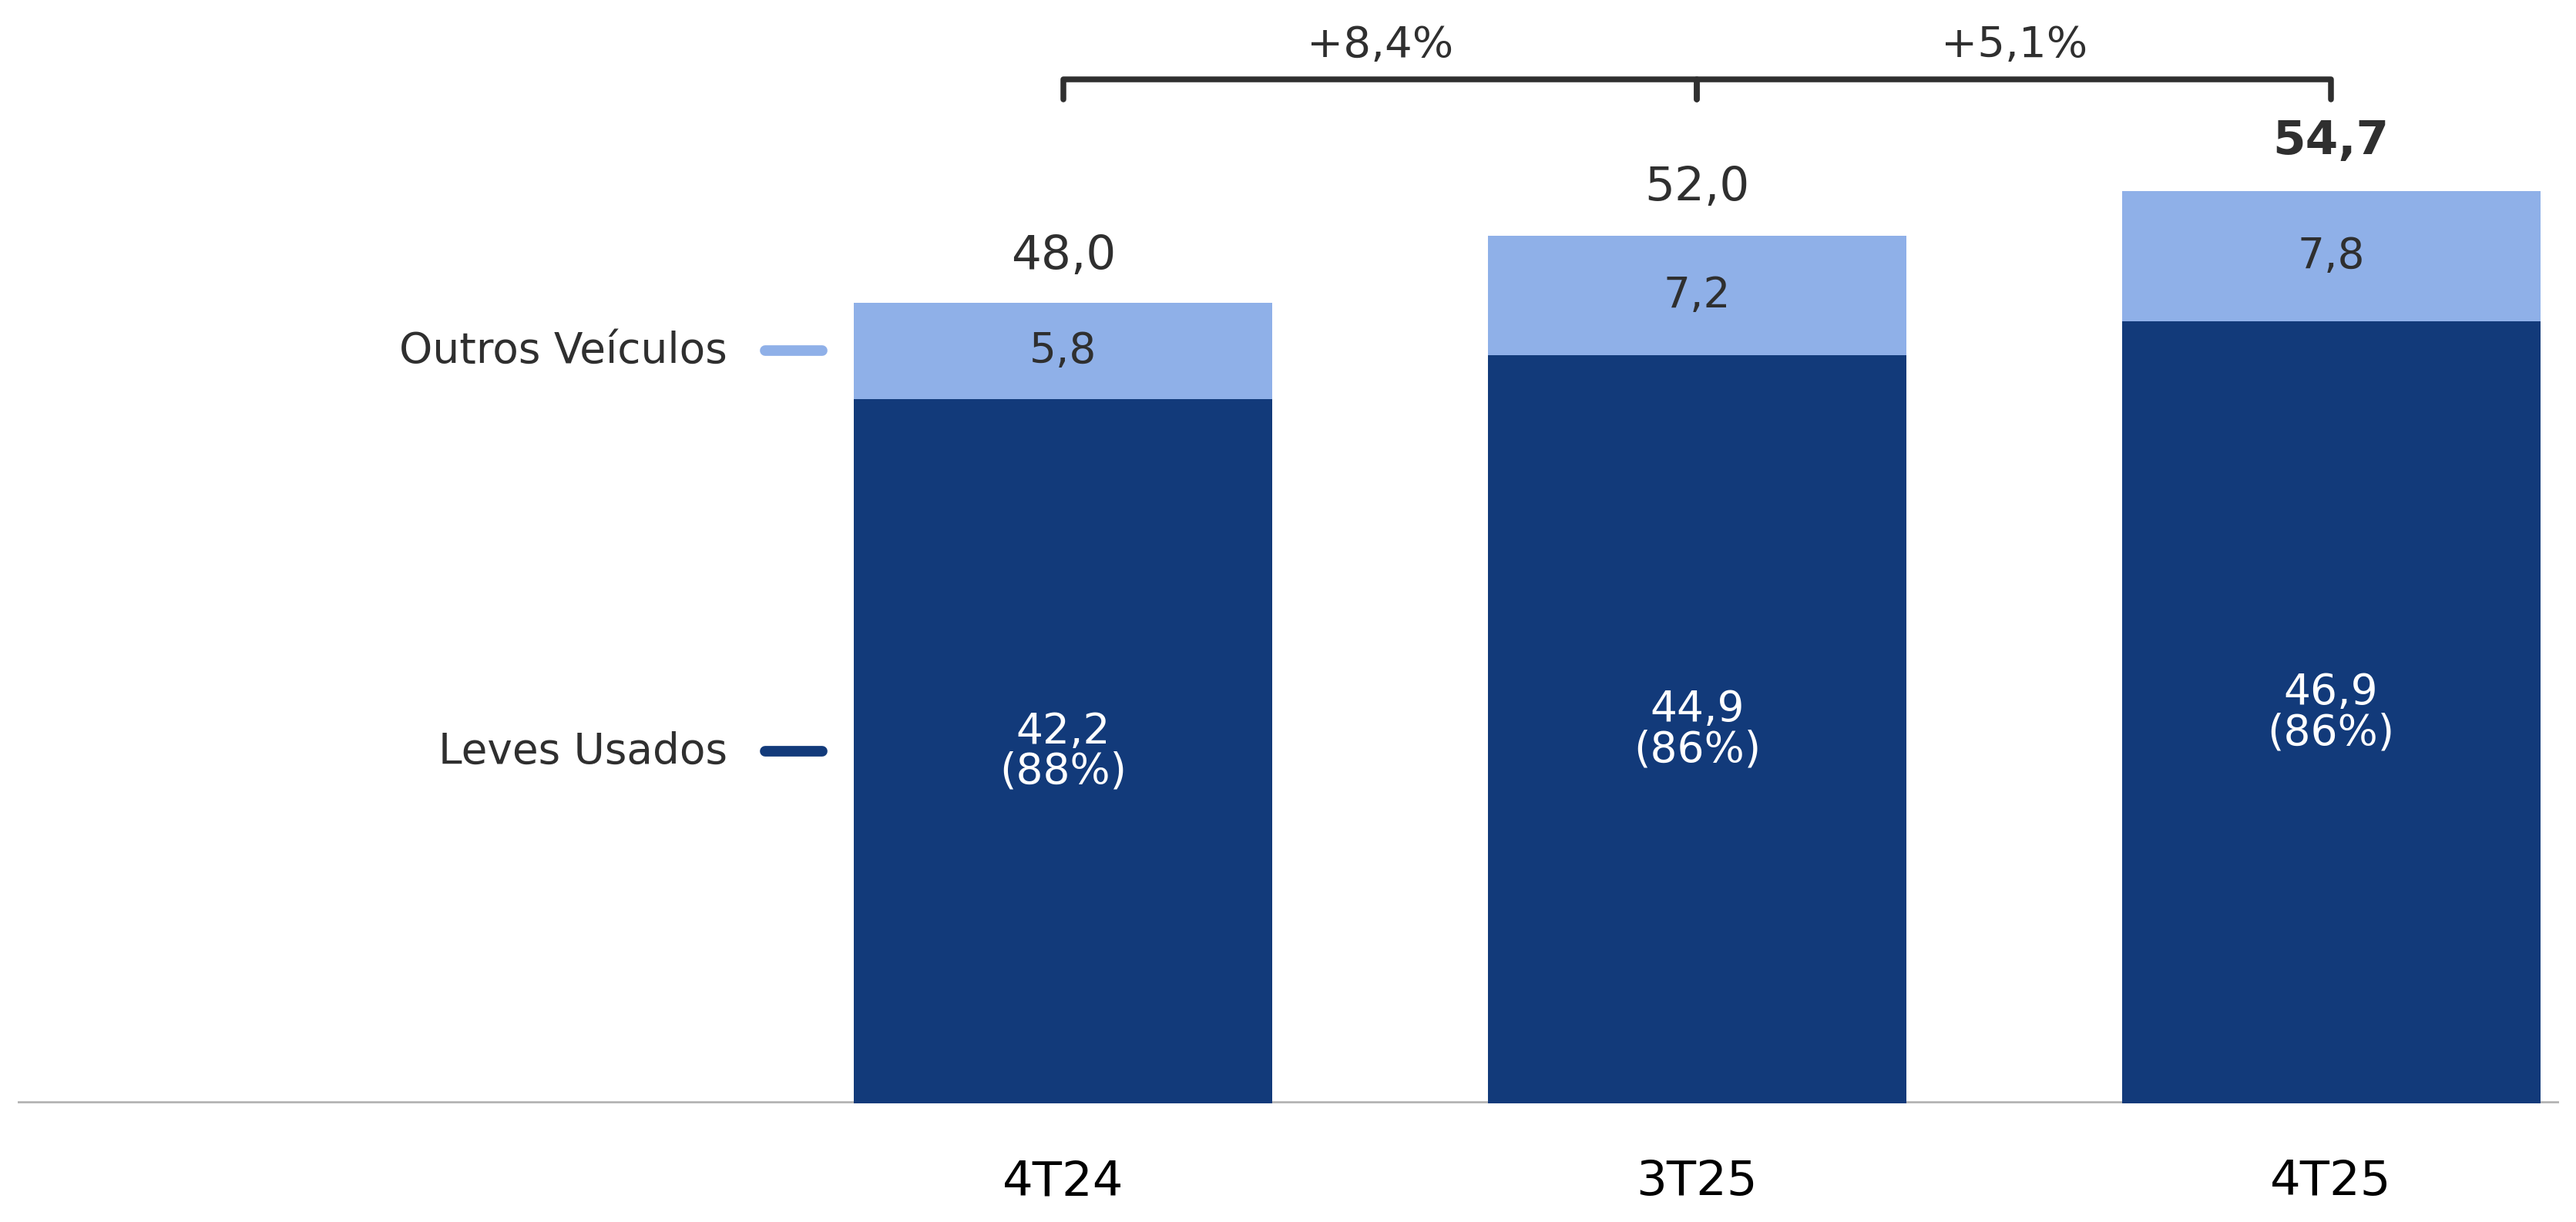
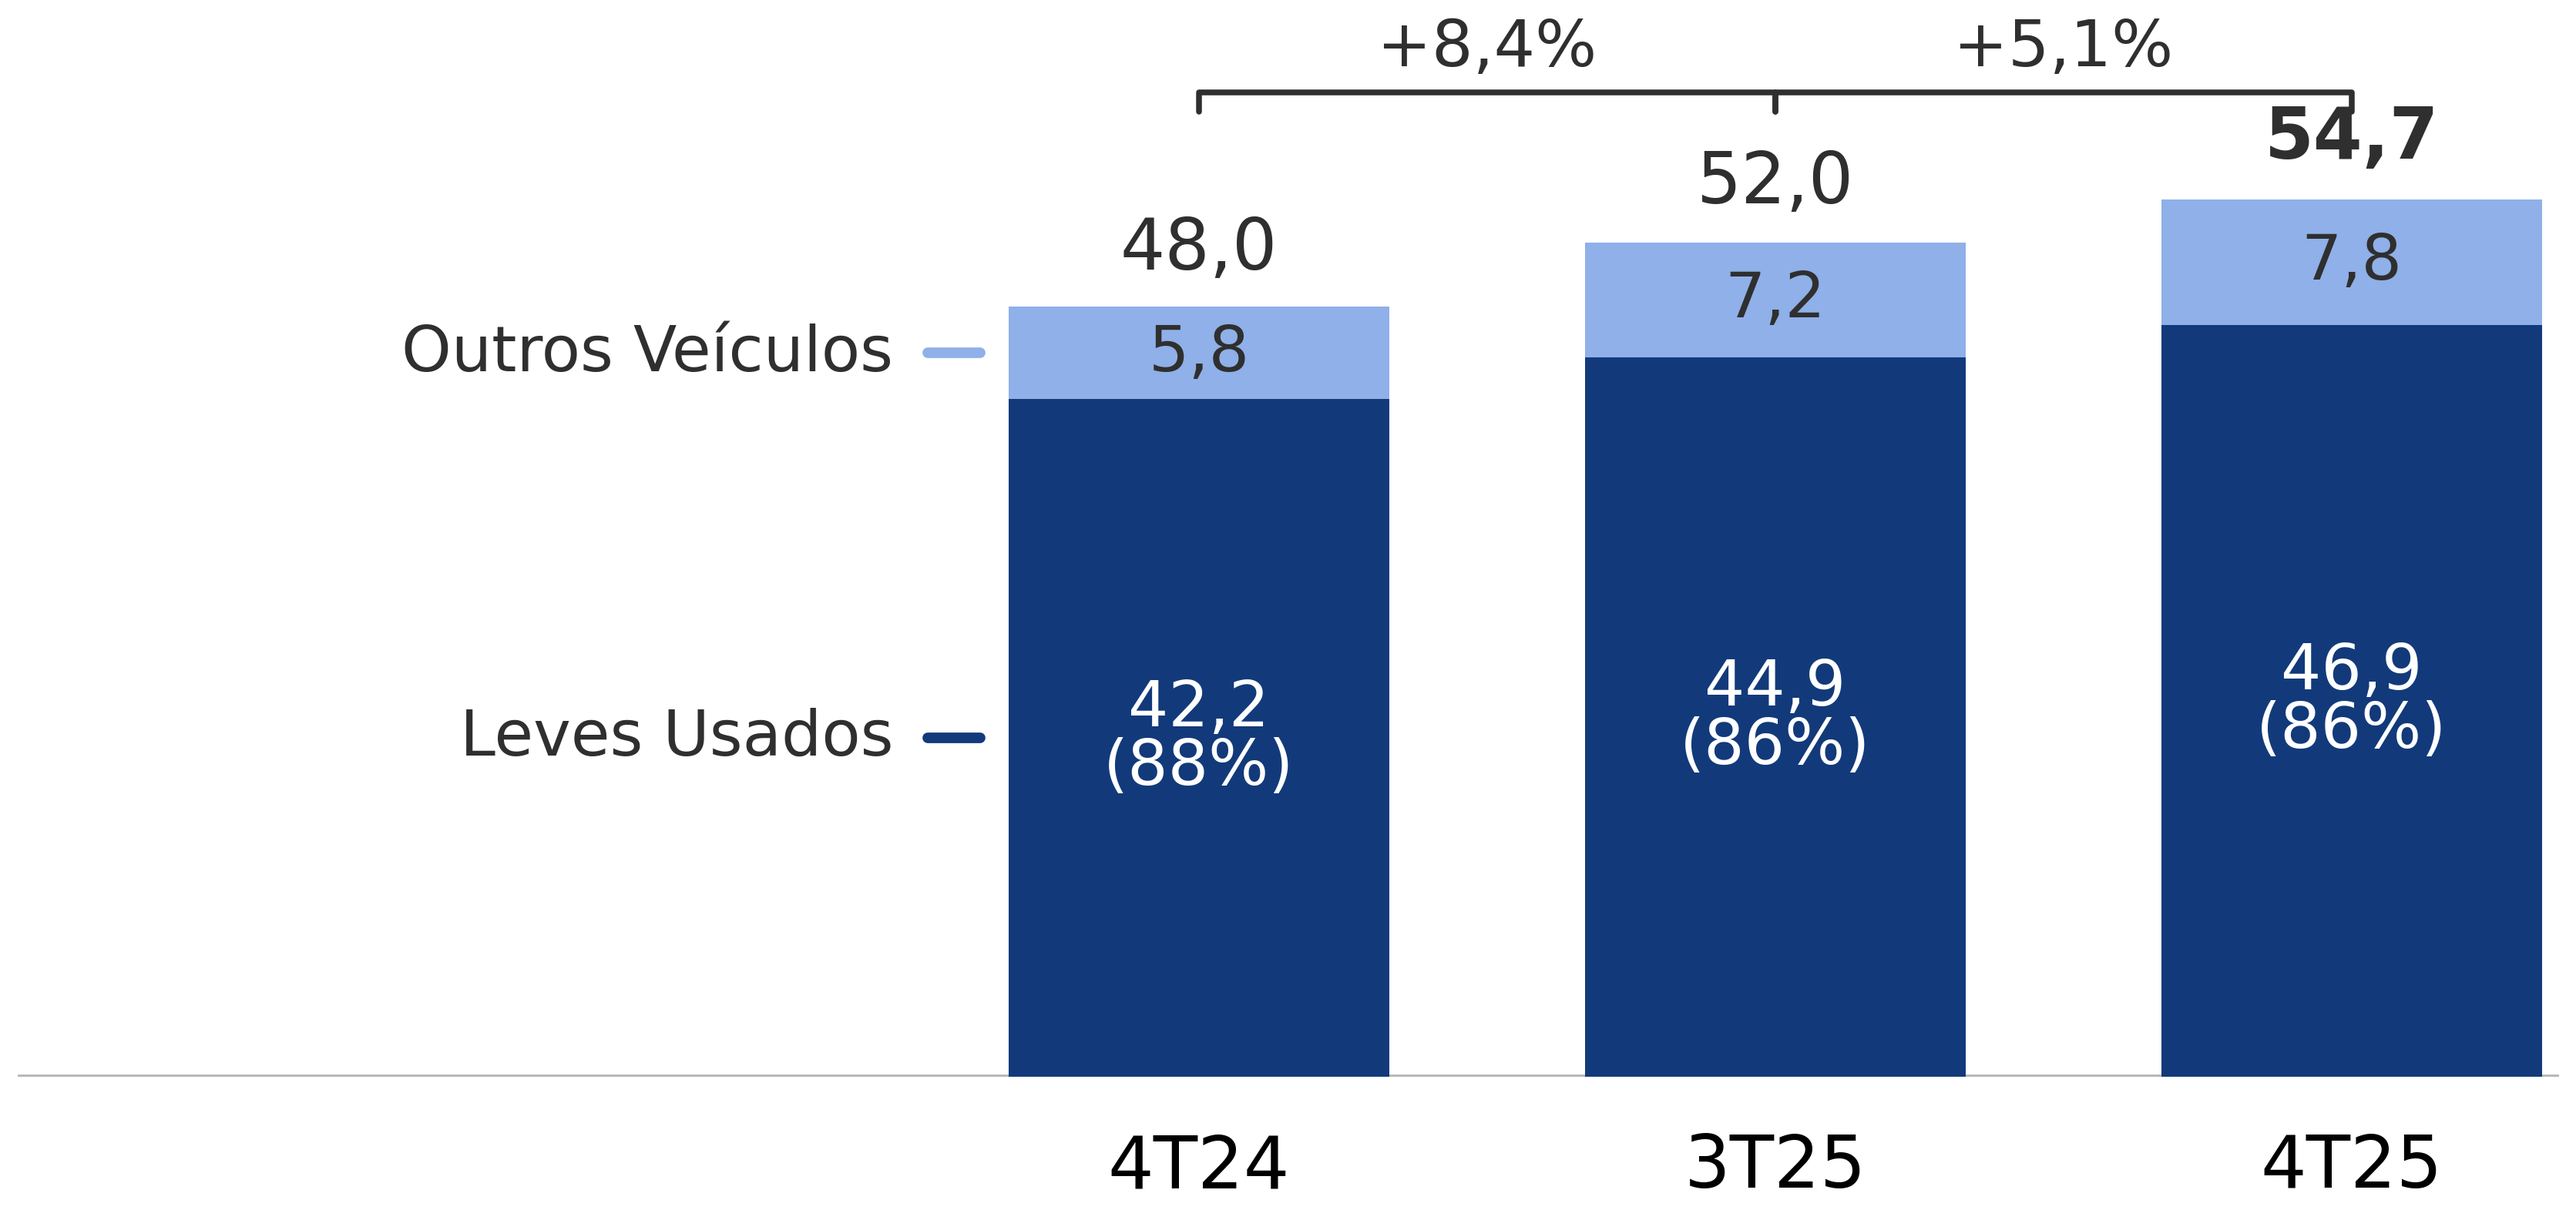
fine adjustementes on slide 19

diff --git a/utils/slide19_charts.py b/utils/slide19_charts.py
@@ -21,7 +21,13 @@ SLIDE19_SERIES = (
 SLIDE19_FIGSIZE = (7.4, 3.5)
 SLIDE19_BAR_SLOT = 1.0
 SLIDE19_BAR_WIDTH = 0.66
+SLIDE19_STACKED_FONT_SCALE = 1.5
 SLIDE19_SIMPLE_BAR_COLOR = "#123A7A"
+SLIDE19_SIMPLE_FONT_SCALE = 1.5
+SLIDE19_SIMPLE_BAR_WIDTH = 0.62
+SLIDE19_SIMPLE_BAR_SLOT = 1.0
+SLIDE19_SIMPLE_ANOS_BAR_WIDTH = 0.22
+SLIDE19_SIMPLE_ANOS_BAR_SLOT = 0.38
 
 
 def _read_range_row(ws, cell_range: str) -> list[object]:
@@ -164,7 +170,7 @@ def _plot_stacked_veiculos(
                 label,
                 ha="center",
                 va="center",
-                fontsize=8.8,
+                fontsize=8.8 * SLIDE19_STACKED_FONT_SCALE,
                 color=txt_color,
                 zorder=4,
                 linespacing=0.95,
@@ -185,7 +191,7 @@ def _plot_stacked_veiculos(
             _fmt_value(total),
             ha="center",
             va="bottom",
-            fontsize=9.8,
+            fontsize=9.8 * SLIDE19_STACKED_FONT_SCALE,
             fontweight="bold" if i == n - 1 else "normal",
             color="#2f2f2f",
             zorder=5,
@@ -222,7 +228,7 @@ def _plot_stacked_veiculos(
                 _fmt_bracket_pct(curr, prev),
                 ha="center",
                 va="bottom",
-                fontsize=9.0,
+                fontsize=9.0 * SLIDE19_STACKED_FONT_SCALE,
                 color="#2f2f2f",
                 zorder=5,
             )
@@ -233,7 +239,7 @@ def _plot_stacked_veiculos(
             ax.set_ylim(ymin, max(ymax, max_text_y + offset_y * 0.9))
 
     max_name_len = max((len(str(name).strip()) for name in series_names), default=1)
-    left_margin = max(1.55, 0.78 + max_name_len * 0.043)
+    left_margin = max(1.95, 0.92 + max_name_len * 0.055)
     x_text = float(x[0]) - width / 2.0 - 0.20
     connector_start = x_text + 0.06
     connector_end = float(x[0]) - width / 2.0 - 0.05
@@ -262,7 +268,7 @@ def _plot_stacked_veiculos(
             str(name),
             ha="right",
             va="center",
-            fontsize=8.8,
+            fontsize=8.8 * SLIDE19_STACKED_FONT_SCALE,
             color="#2f2f2f",
             zorder=7,
             clip_on=False,
@@ -271,7 +277,7 @@ def _plot_stacked_veiculos(
     ax.axhline(0.0, color="#b5b5b5", linewidth=0.9, zorder=1)
     ax.set_xlim(float(x.min()) - (left_margin + 0.10), float(x.max()) + 0.36)
     ax.set_xticks(x)
-    ax.set_xticklabels(xlabels, fontsize=10.0)
+    ax.set_xticklabels(xlabels, fontsize=10.0 * SLIDE19_STACKED_FONT_SCALE)
     ax.tick_params(axis="x", bottom=False, pad=8)
     ax.set_yticks([])
     for spine in ("left", "right", "top", "bottom"):
@@ -291,6 +297,8 @@ def _plot_simple_bars(
     values: list[float] | np.ndarray,
     output_path: Path,
     bar_color: str = SLIDE19_SIMPLE_BAR_COLOR,
+    bar_width: float = SLIDE19_SIMPLE_BAR_WIDTH,
+    bar_slot: float = SLIDE19_SIMPLE_BAR_SLOT,
 ) -> None:
     import matplotlib.pyplot as plt
 
@@ -303,8 +311,8 @@ def _plot_simple_bars(
     fig.patch.set_alpha(0)
     ax.set_facecolor("none")
 
-    x = np.arange(n, dtype=float)
-    bars = ax.bar(x, vals, width=0.62, color=bar_color, edgecolor="none", zorder=2)
+    x = np.arange(n, dtype=float) * float(bar_slot)
+    bars = ax.bar(x, vals, width=float(bar_width), color=bar_color, edgecolor="none", zorder=2)
 
     label_tops: list[float] = []
     for i, (rect, value) in enumerate(zip(bars, vals)):
@@ -318,7 +326,7 @@ def _plot_simple_bars(
             _fmt_value(value),
             ha="center",
             va="bottom",
-            fontsize=9.8,
+            fontsize=9.8 * SLIDE19_SIMPLE_FONT_SCALE,
             fontweight="bold" if i == n - 1 else "normal",
             color="#2f2f2f",
             zorder=4,
@@ -355,7 +363,7 @@ def _plot_simple_bars(
                 _fmt_bracket_pct(curr, prev),
                 ha="center",
                 va="bottom",
-                fontsize=9.0,
+                fontsize=9.0 * SLIDE19_SIMPLE_FONT_SCALE,
                 color="#2f2f2f",
                 zorder=5,
             )
@@ -367,7 +375,7 @@ def _plot_simple_bars(
 
     ax.axhline(0.0, color="#b5b5b5", linewidth=0.9, zorder=1)
     ax.set_xticks(x)
-    ax.set_xticklabels(xlabels, fontsize=10.0)
+    ax.set_xticklabels(xlabels, fontsize=10.0 * SLIDE19_SIMPLE_FONT_SCALE)
     ax.tick_params(axis="x", bottom=False, pad=8)
     ax.set_yticks([])
     for spine in ("left", "right", "top", "bottom"):
@@ -424,6 +432,8 @@ def generate_slide19_charts(*, xlsx_path: Path, output_dir: Path) -> list[Path]:
         xlabels=seguros_ano_labels,
         values=seguros_ano_values,
         output_path=seguros_ano_output,
+        bar_width=SLIDE19_SIMPLE_ANOS_BAR_WIDTH,
+        bar_slot=SLIDE19_SIMPLE_ANOS_BAR_SLOT,
     )
 
     return [output_path, seguros_trim_output, seguros_ano_output]

diff --git a/tests/test_slide19_charts.py b/tests/test_slide19_charts.py
@@ -51,13 +51,23 @@ class TestSlide19Charts(unittest.TestCase):
             captured["values"] = values.tolist()
             captured["veiculos_output_name"] = Path(output_path).name
 
-        def _capture_simple(*, xlabels, values, output_path, bar_color="#123A7A"):
+        def _capture_simple(
+            *,
+            xlabels,
+            values,
+            output_path,
+            bar_color="#123A7A",
+            bar_width=0.62,
+            bar_slot=1.0,
+        ):
             captured["simple_calls"].append(
                 {
                     "xlabels": list(xlabels),
                     "values": list(values),
                     "output_name": Path(output_path).name,
                     "bar_color": bar_color,
+                    "bar_width": bar_width,
+                    "bar_slot": bar_slot,
                 }
             )
 
@@ -95,12 +105,16 @@ class TestSlide19Charts(unittest.TestCase):
                     "values": [420.0, 354.0, 418.0],
                     "output_name": SLIDE19_SEGUROS_TRIMESTRES_OUTPUT,
                     "bar_color": "#123A7A",
+                    "bar_width": 0.62,
+                    "bar_slot": 1.0,
                 },
                 {
                     "xlabels": ["2024", "2025"],
                     "values": [1672.0, 1452.0],
                     "output_name": SLIDE19_SEGUROS_ANOS_OUTPUT,
                     "bar_color": "#123A7A",
+                    "bar_width": 0.22,
+                    "bar_slot": 0.38,
                 },
             ],
         )
